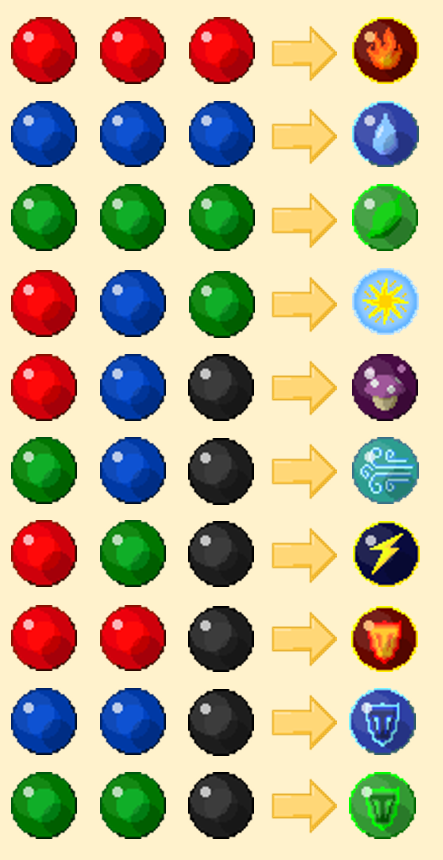
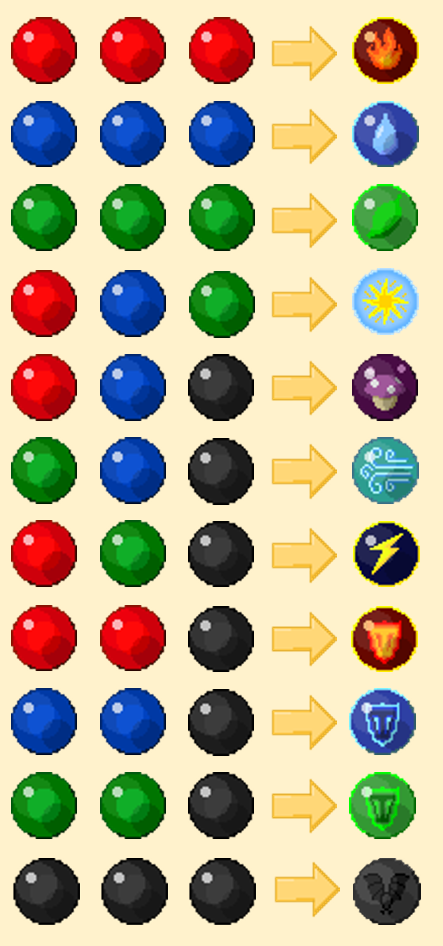
Hardening orb effect changed(increase charge bonus)

diff --git a/Assets/Scripts/Movers/PlayerMover.cs b/Assets/Scripts/Movers/PlayerMover.cs
@@ -8,8 +8,6 @@ public class PlayerMover : Mover {
     GameManager gm;
     Transform t;
     
-    private const float bonusDamage = 1.5f;     // 돌진 시 곱해지는 추가 대미지
-    
     public List<Sprite> weaponMarkSprite;
     public List<Sprite> characterSprite;
 
@@ -124,7 +122,7 @@ public class PlayerMover : Mover {
             else if (Input.GetKeyDown(KeyCode.O))
             {
                 // TODO 디버그용 오브 생성 코드
-                gm.map.AddItemOnTile(Random.Range(118, 119), t.position);
+                gm.map.AddItemOnTile(Random.Range(100, 104), t.position);
                 //gm.NextTurn();
                 StartCoroutine(DelayedNextTurn());
             }
@@ -204,8 +202,6 @@ public class PlayerMover : Mover {
             if (enemies.Count > 0)
             {
                 // 진행 방향으로 사정거리 내에 적이 있을 경우
-                float bonus = bonusDamage;         // 돌진 시 추가 대미지 적용
-                if (!isCharge) bonus = 1f;
 
                 for (int i = 1; i <= c.EquippedWeapon.Range; i++)
                 {
@@ -214,7 +210,7 @@ public class PlayerMover : Mover {
                     g.GetComponent<SpriteRenderer>().color = new Color(0f, 0.8f, 0f, 1f);
                     g.GetComponent<DistanceSprite>().Disappear(30);
                 }
-                StartCoroutine(AttackAnimation(direction, enemies, bonus));
+                StartCoroutine(AttackAnimation(direction, enemies, isCharge));
             }
             else
             {
@@ -225,7 +221,7 @@ public class PlayerMover : Mover {
     }
 
     // TODO direction은 현재 사용하지 않음.
-    IEnumerator AttackAnimation(Vector3 direction, List<Character> enemies, float bonusDamage)
+    IEnumerator AttackAnimation(Vector3 direction, List<Character> enemies, bool isCharge)
     {
         isMoving = true;
         int frame = 20;     // int이어야 동작함. float이면 동작하지 않음
@@ -250,7 +246,7 @@ public class PlayerMover : Mover {
             {
                 foreach (Character enemy in enemies)
                 {
-                    enemy.Damaged(enemy.armor.ComputeDamage(c.EquippedWeapon, bonusDamage), direction, (bonusDamage > 1f));
+                    enemy.Damaged(enemy.armor.ComputeDamage(c.EquippedWeapon, isCharge), direction, isCharge);
                     //enemy.Damaged(Mathf.Max(0, (int)(bonusDamage * c.EquippedWeapon.Attack()) - enemy.armor.Defense()));
                     enemy.DamagedWithEffects(c.EquippedWeapon.afterAttackEffect);
                 }

diff --git a/Assets/Scripts/Managers/ItemManager.cs b/Assets/Scripts/Managers/ItemManager.cs
@@ -311,7 +311,6 @@ public class ItemManager : MonoBehaviour {
         {
             if (Random.Range(0f, 1f) < probability / 100f)
             {
-                Debug.Log(target.name + " stunned!");
                 target.hasStuned = true;
             }
         }
@@ -445,19 +444,24 @@ public class ItemInfo
                 if (effectName != null && !effectName.Equals("None"))
                 {
                     bool isNotAfter = false;
-                    if (effectName.Equals("FireAmp") || effectName.Equals("AllAmp"))
+                    if (effectName.Equals("FireAmp"))
                     {
                         GameManager.gm.player.EquippedWeapon.FireAmpBonus += effectParam / 100f;
                         isNotAfter = true;
                     }
-                    if (effectName.Equals("IceAmp") || effectName.Equals("AllAmp"))
+                    if (effectName.Equals("IceAmp"))
                     {
                         GameManager.gm.player.EquippedWeapon.IceAmpBonus += effectParam / 100f;
                         isNotAfter = true;
                     }
-                    if (effectName.Equals("NatureAmp") || effectName.Equals("AllAmp"))
+                    if (effectName.Equals("NatureAmp"))
                     {
                         GameManager.gm.player.EquippedWeapon.NatureAmpBonus += effectParam / 100f;
+                        isNotAfter = true;
+                    }
+                    if (effectName.Equals("Sharpen"))
+                    {
+                        GameManager.gm.player.EquippedWeapon.chargeBonus += effectParam / 100f;
                         isNotAfter = true;
                     }
                     if (!isNotAfter)

diff --git a/Assets/Scripts/Armor.cs b/Assets/Scripts/Armor.cs
@@ -45,11 +45,14 @@ public class Armor {
     /// <param name="otherWeapon">상대 무기</param>
     /// <param name="bonusDamage">곱해질 추가 대미지</param>
     /// <returns></returns>
-    public int ComputeDamage(Weapon otherWeapon, float bonusDamage = 1f)
+    public int ComputeDamage(Weapon otherWeapon, bool isCharge)
     {
         //Mathf.Max(0, (int)(bonusDamage * otherWeapon.Attack()) - Defense())
-
-        int baseDamage = Mathf.Clamp((int)(bonusDamage * otherWeapon.BaseAttack()) - BaseDefense(), 0, 999);
+        int baseDamage;
+        if (isCharge)
+            baseDamage = Mathf.Clamp((int)(otherWeapon.chargeBonus * otherWeapon.BaseAttack()) - BaseDefense(), 0, 999);
+        else
+            baseDamage = Mathf.Clamp(otherWeapon.BaseAttack() - BaseDefense(), 0, 999);
         int fire = Mathf.Clamp(otherWeapon.ValidElement.Fire - ValidElement.Fire, 0, 99);
         int ice = Mathf.Clamp(otherWeapon.ValidElement.Ice - ValidElement.Ice, 0, 99);
         int nature = Mathf.Clamp(otherWeapon.ValidElement.Nature - ValidElement.Nature, 0, 99);

diff --git a/Assets/Scripts/Movers/EnemyMover.cs b/Assets/Scripts/Movers/EnemyMover.cs
@@ -9,7 +9,6 @@ public class EnemyMover : Mover {
     Transform t;
     
     private bool isMoved;       // 이동이 끝나면 true
-    private const float bonusDamage = 1.5f;     // 돌진 시 곱해지는 추가 대미지
 
     // TODO SerializeField는 디버깅 용도로 넣은 것
     [SerializeField]
@@ -504,11 +503,9 @@ public class EnemyMover : Mover {
                 // 진행 방향에 플레이어가 있을 경우
                 attacked = true;
                 Character player = (Character)e;
-                float bonus = bonusDamage;         // 돌진 시 추가 대미지 적용
-                if (!isCharge) bonus = 1f;
                 StartCoroutine(AttackAnimation(direction, player,
                     //Mathf.Max(0, (int)(bonus * c.EquippedWeapon.Attack()) - player.armor.Defense())));
-                    player.armor.ComputeDamage(c.EquippedWeapon, bonus), (bonus > 1f)));
+                    player.armor.ComputeDamage(c.EquippedWeapon, isCharge), isCharge));
                 break;
             }
         }

diff --git a/Assets/Scripts/Weapon.cs b/Assets/Scripts/Weapon.cs
@@ -10,7 +10,8 @@ public class Weapon {
     public Element element;
     public int range;
     public ItemManager.Effect afterAttackEffect;
-    
+    public float chargeBonus;       // 돌진 시 곱해지는 추가 대미지
+
     private float[] pureAmpBonus = new float[3] { 0f, 0f, 0f };  // Amp 효과로 인한 원소 스탯 증가 비율
 
     public int Range
@@ -115,6 +116,10 @@ public class Weapon {
         }
     }
 
+    public Weapon()
+    {
+        chargeBonus = 1.5f;
+    }
 
     /// <summary>
     /// 기본 공격력인 속성 합을 반환합니다.
